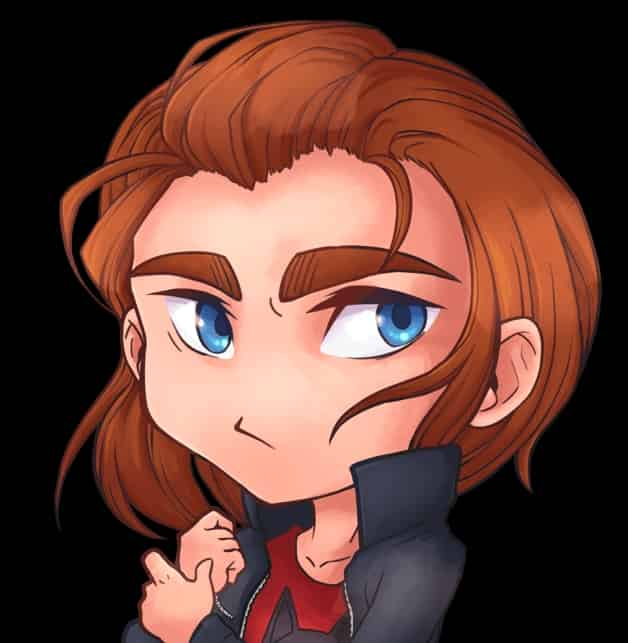
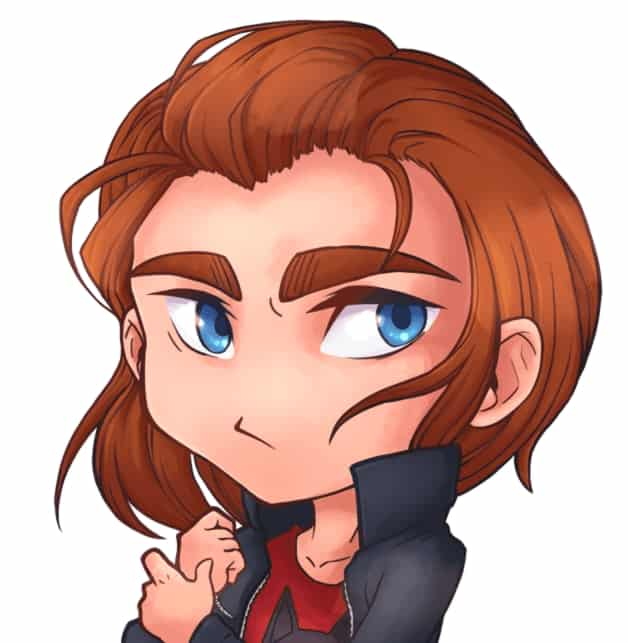
Style changes, semantic and SEO
Remove goatcounter picture as to respect accessibility and not be sneaky
Remove unneeded header art
(Ab)use @supports to have some NetSurf compatibility (more coming)
Make navigation options more visible
Consolidate post-content h1 and h2 styling
Move copyleft style to stylesheet
Use h1 in nav on homepage for SEO
Set og:title on homepage
Make cool_profile.jpg with a white background for NetSurf
Add robots.txt
Add more ideas to TODO

diff --git a/layouts/_default/index.stylesheet.css b/layouts/_default/index.stylesheet.css
@@ -125,27 +125,15 @@ a {
 /* Header
 -------------------------------------------------- */
 .header {
-  /* Orange
-  background: linear-gradient(70deg, #ca1300 -5%, #f05000 80%); */
-  /* Purple
-  background: linear-gradient(70deg, #8410cc -5%, #cc10b6 80%); */
-  /* Blue
-  background: linear-gradient(70deg, #008dc9 -5%, #00b8c9 80%); */
-  /* Pink */
   background: linear-gradient(70deg, {{ .Site.Params.primary_colour }} -5%, {{ .Site.Params.secondary_colour }} 80%);
   position: relative;
   height: 300px;
   width: 100%;
 }
 .header a {
-  color: rgba(255, 255, 255, 1);
+  color: rgba(0, 0, 0, 0.88);
 }
 .profile-wrapper {
-  position: absolute;
-  top: 0;
-  left: 0;
-  right: 0;
-  bottom: 0;
   margin: 0;
   display: flex;
   justify-content: center;
@@ -154,8 +142,11 @@ a {
 
 .profile-wrapper img {
   display: block;
+  margin-left: auto;
+  margin-right: auto;
+  margin-top: -250px;
   max-width: 100%;
-  max-height: 100%;
+  max-height: 260px;
 }
 .u-photo.jpeg {
   mask-image: url("/{{ .Site.Author.avatar }}_mask.png");
@@ -165,11 +156,8 @@ a {
 }
 
 .picture-license {
-  position: absolute;
-  top: 0;
-  left: 0;
-  right: 0;
-  bottom: 0;
+  text-align: center;
+  margin-top: -5px;
   display: flex;
   align-items: flex-end;
   justify-content: center;
@@ -196,17 +184,29 @@ a {
 .logo,
 .menu {
   display: flex;
+  background: linear-gradient(to bottom, rgba(0, 0, 0, 0), 0, rgba(0, 0, 0, 0.6));
+  border-radius: 10px;
+  line-height: 1;
   z-index: 1;
 }
 .logo {
   font-size: 28px;
   margin: .5em 0 0;
+  padding: 5px 10px;
+}
+.logo h1, .logo span {
+  color: rgba(0, 0, 0, 0.88);
+  font-size: 28px;
+  line-height: 2;
+  margin-block-start: 0;
+  margin-block-end: 0;
 }
 .menu {
   list-style: none;
 	padding-inline-start: 0px;
   gap: 16px;
   word-break: keep-all;
+  padding: 10px 15px;
 }
 .menu a {
   font-size: 24px;
@@ -359,10 +359,12 @@ a {
 .post-content h1 {
   margin-top: 40px;
   margin-bottom: 32px;
+  font-size: 40px;
 }
 .post-content h2 {
   margin-top: 32px;
   margin-bottom: 24px;
+  font-size: 32px;
 }
 .post-content h3,
 .post-content h4,
@@ -370,12 +372,6 @@ a {
 .post-content h6 {
   margin-top: 24px;
   margin-bottom: 16px;
-}
-.post-content h1 {
-  font-size: 40px;
-}
-.post-content h2 {
-  font-size: 32px;
 }
 .post-content h3 {
   font-size: 24px;
@@ -440,8 +436,6 @@ a {
 }
 .table-row span {
   margin: 5px 10px;
-}
-.table-row span {
   color: var(--content);
 }
 .table-head span {
@@ -474,6 +468,10 @@ a {
 .footer a {
   color: var(--primary);
   border-bottom: 1px solid var(--primary);
+}
+.copyleft {
+  display: inline-block;
+  transform: rotate(180deg);
 }
 /* 404
 -------------------------------------------------- */
@@ -508,4 +506,40 @@ a {
 		flex-direction: column;
 		gap: 4px;
 	}
+	.logo h1, .logo span {
+    margin-left: 15px;
+	}
+	.menu li, .logo h1, .logo span {
+    margin-bottom: 5px;
+  }
+}
+
+/* Add good stuff that the Netsurf 'support' destroys
+-------------------------------------------------- */
+@supports(display:grid) {
+  .header a {
+    color: rgba(255, 255, 255, 1);
+  }
+  .logo h1, .logo span {
+    color:rgba(255, 255, 255, 1);
+  }
+  .profile-wrapper {
+    position: absolute;
+    top: 0;
+    left: 0;
+    right: 0;
+    bottom: 0;
+  }
+  .profile-wrapper img {
+    margin: 0;
+    max-height: 100%;
+  }
+  .picture-license {
+    position: absolute;
+    top: 0;
+    left: 0;
+    right: 0;
+    bottom: 0;
+    margin: 0;
+  }
 }

diff --git a/layouts/_default/baseof.html b/layouts/_default/baseof.html
@@ -11,7 +11,6 @@
 <script async defer data-domain="thelion.website" src="https://stats.thelion.website/js/plausible.js"></script>
 <script async defer data-domain="thelion.website" src="https://stats.thelion.website/js/index.outbound-links.js"></script>
 <script data-goatcounter="https://thelion.goatcounter.com/count" async src="//gc.zgo.at/count.v2.js" crossorigin="anonymous" integrity="sha384-PeYXrhTyEaBBz91ANMgpSbfN1kjioQNPHNDbMvevUVLJoWrVEjDCpKb71TehNAlj"></script>
-<noscript><img src="https://thelion.goatcounter.com/count?p=/test-noscript"></noscript>
       
 <footer class="footer">{{- partialCached "footer.html" . -}}</footer>
   

diff --git a/layouts/partials/head.html b/layouts/partials/head.html
@@ -2,7 +2,10 @@
 
     <!-- Navigation bar -->
     <nav class="nav">
-        <p class="u-url u-uid logo"><a href="{{ .Site.BaseURL }}">The Lion</a></p>
+        <a class="u-url u-uid logo" href="{{ .Site.BaseURL }}">
+          {{ if eq .Kind "home" }}<h1>The Lion</h1>
+          {{ else }}<span>The Lion</span>{{ end }}
+        </a>
         <ul class="menu">
             <li><a href="/atom.xml">Feed</a></li><li><a href="/projects/">Projects</a></li><li><a href="/tracking/">Tracking</a></li><li><a href="/about/">About</a></li>
         </ul>

diff --git a/layouts/partials/footer.html b/layouts/partials/footer.html
@@ -1,5 +1,5 @@
 
-  <p><span style="display: inline-block; transform: rotate(180deg);" aria-label="copyleft">&copy;</span><span><a href="https://github.com/lionirdeadman/lionirdeadman.github.io">Website code under AGPLv3-only</a></span>
+  <p><span class="copyleft" aria-label="copyleft">&copy;</span><span><a href="https://github.com/lionirdeadman/lionirdeadman.github.io">Website code under AGPLv3-only</a></span>
   <span>&middot;</span>
   <span>Powered by <a href="https://gohugo.io/" rel="noopener" target="_blank">Hugo</a></span>
   <br />

diff --git a/layouts/partials/header.html b/layouts/partials/header.html
@@ -50,6 +50,7 @@
     <meta property="og:site_name" content="{{- .Site.Title -}}" />
     <meta property="og:type" content="website" />
     <meta property="og:url" content="{{- .Site.BaseURL -}}" />
+    <meta property="og:title" content="{{- .Site.Title -}}" />
     <meta property="og:description" content="{{- .Site.Params.Description -}}" />
     {{ else }}
     <meta property="og:url" content="{{- .Page.Permalink -}}" />
